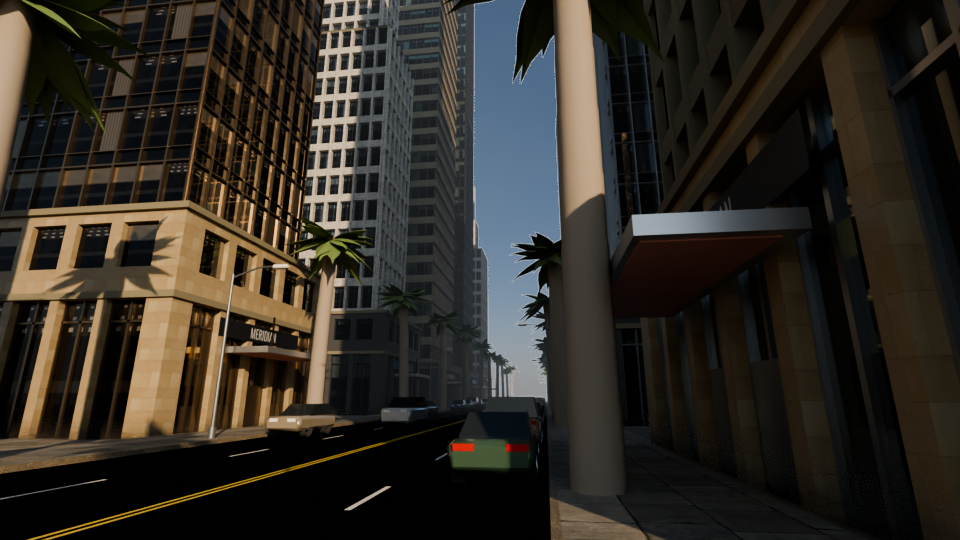
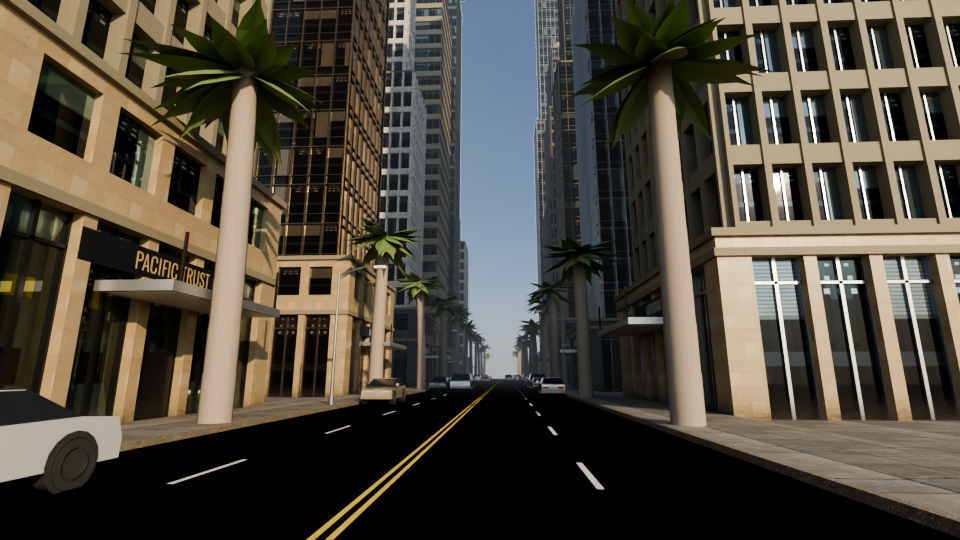
WIP snapshot (auto): workflows in progress
Claude-Session: https://claude.ai/code/session_013hTzzkEbxNRPuu2R1Xna4H

diff --git a/tools/blender/buildkit/render_kit.py b/tools/blender/buildkit/render_kit.py
@@ -120,8 +120,8 @@ def sc_downtown(a, night=False):
         S.night()
     else:
         S.world("sky_late_afternoon", sun_az=-150.0)
-    avenue(-460, 420, night=night, lamps=70, palms=(38, 50), palm_kind="date", seed=3, far_w=0, no_cars=(-460, -330),
-           clear=(-392, -7, 30))
+    avenue(-460, 420, night=night, lamps=70, palms=(50, 64), palm_kind="fan", seed=3, far_w=0, no_cars=(-460, -330),
+           clear=(-392, -7, 75))
     specs = [("tower", 3, -330), ("tower", 7, -230), ("tower", 1, -120), ("tower", 12, -10), ("tower", 5, 100), ("tower", 9, 210)]
     for (arch, sd, x) in specs:
         B = BK.build(arch, sd)

diff --git a/docs/v2/research/gta_assets.md b/docs/v2/research/gta_assets.md
@@ -638,3 +638,62 @@ For night, Poly Haven does have pure-sky HDRIs (corrected in verification): `klo
 | `img_gta/assets_npc_bodies.jpg`, `assets_npc_civ.jpg`, `assets_npc_police.jpg`, `assets_npc_police_acc.jpg`, `assets_npc_hats.jpg`, `assets_npc_street.jpg` | avatar items |
 | `img_gta/assets_city_sketchfab_buildings.jpg`, `assets_city_sketchfab_props.jpg`, `assets_props_polyhaven.jpg`, `assets_props_creatorstore.jpg` | city |
 | `img_gta/assets_sky_creatorstore.jpg`, `assets_sky_polyhaven.jpg` | skies |
+
+---
+
+## Verification
+
+Skeptical re-check made on 2026-10-27 by a second agent against the live APIs and the Roblox docs. **Totals: 23 CONFIRMED, 8 WRONG (all fixed in place above), 3 UNVERIFIABLE.** Changed lines in the body are the corrections listed here; rows added in verification are marked *(added in verification)*.
+
+Sources queried: `apis.roblox.com/toolbox-service/v1/items/details`, `catalog.roblox.com/v1/bundles/<id>/details`, `catalog.roblox.com/v1/favorites/assets/<id>/count`, `economy.roblox.com/v2/assets/<id>/details`, `users.roblox.com/v1/usernames/users`, `thumbnails.roblox.com/v1/assets`, `api.sketchfab.com/v3/models[/<uid>]`, `api.polyhaven.com/assets`, and the Roblox engine reference sources at `github.com/Roblox/creator-docs` (`Humanoid.yaml`, `Players.yaml`, `Sound.yaml`, `InsertService.yaml`, `AssetService.yaml`, `HumanoidDescription.yaml`, `projects/assets/privacy.md`, `production/creator-store.md`, `art/modeling/specifications.md`).
+
+### Wrong (corrected in place)
+
+| # | Claim | Correction |
+|---|---|---|
+| W1 | Base Body bundles 979–995 all have "realistic proportions" and rate 4 (Charlie 983, Glenn 984, Parker 985 in the table). | **979–987 (Riley, Cameron, Peyton, Charlie, Glenn, Parker, Devin, Kayden) use Roblox's "Anime Style 1/2" torso and head meshes.** For example, Charlie's 11572083496 is "Anime Style 1 – Torso" and 11572085825 is "Anime Style 1 – Head". The head thumbnails show large anime eyes. Only **988–995** have their own realistic-proportion parts. The 3 rows were moved to Notable 3s, and the decision summary now says 988–995. |
+| W2 | Use `Players:CreateHumanoidModelFromDescription`, `Humanoid:ApplyDescription` and `Humanoid:PlayEmote`. | All three are tagged **Deprecated** in the engine reference. Use `CreateHumanoidModelFromDescriptionAsync`, `ApplyDescriptionAsync` and `PlayEmoteAsync`. |
+| W3 | "For night, Poly Haven has no pure-sky option." | Poly Haven has 5 night "pure skies" HDRIs: `kloppenheim_07_puresky` (overcast, artificial light: the best fit for a lit city), `kloppenheim_02_puresky`, `qwantani_night_puresky`, `qwantani_moonrise_puresky` and `qwantani_moon_noon_puresky`. Rows were added to §6.2, with thumbnails in `img_gta/assets/ph_*`. |
+| W4 | "Nothing below repeats an ID from `assets/curation/*.json` … unless marked." | 4 IDs in Notable-3 lists were already in `assets/curation/vehicles-characters-props.json` and were unmarked: 1081392, 144076760, 6554200369 and 6555797786. They are now marked *(already in repo)*. All 18 IDs that the doc marked "already in repo" are present. |
+| W5 | Fleet has "police (7 cruisers and 5 interceptors)". | The library has about **8 cruisers/enforcers and 8 interceptors**. That includes two modern units the doc missed: **Trinity '03 Cop Interceptor** `6a5c6c8a75764eea905541fd5b05e9bf` (20.8k) and **Urban '10 Cop Enforcer** `745830362bb342128ef6509345606ffe` (19.6k), both CC BY and downloadable. They were added to §1.1 because they close part of the "too 1980s for GTA V" gap. |
+| W6 | Fictional brands mean "GTA-style parody brands come built in". | Mostly true, but **"Phoenix" (Imponte Phoenix) and "Cheetah" (Grotti Cheetah) are GTA's own vehicle names**, and "Duke" is close to Imponte Dukes. The §1.3 use-label "Burrito" is GTA's Declasse Burrito. Rename them, because the lead direction rules out GTA names. Notes were added to §1.1 and §1.2, and "Burrito" was removed from §1.3. Sources: <https://www.grandtheftwiki.com/Imponte>, <https://gtabase.com/grand-theft-auto-v/vehicles/declasse-burrito>, <https://op.gg/gta6/vehicles/cheetah>. |
+| W7 | Both opened GLBs have `WheelStamp_FL/FR/RL/RR` wheel meshes. | Only the Fairheaven uses `WheelStamp_*`. Kiri '10 and Shvan '92 use `WheelStock_*`, and **3** GLBs were opened, not 2. The re-parse of the scratchpad GLBs gave Kiri 12,980 tris / 31 meshes, Fairheaven 19,501 / 36 and Shvan 25,943 / 28. The importer must match `Wheel(Stamp\|Stock)_(FL\|FR\|RL\|RR)` or go by position. |
+| W8 | "223 per-item thumbnails" (author summary). | `img_gta/assets/` held **224** files before verification. It now holds 230, after 6 added thumbnails: 4 Poly Haven night skies and 2 Sketchfab police cars. The 18 contact sheets are confirmed. |
+
+### Confirmed
+
+| # | Claim | Evidence |
+|---|---|---|
+| C1 | Daniel Zhabotinsky has 100+ downloadable CC BY 4.0 models. | 136 models are listed (the profile says 133), and **130 are CC BY 4.0 and downloadable**. 3 are "Free Standard" (Suggan '53, Milano '95 Racemod, the material system) and 3 are not downloadable. None of those 6 is in this doc. |
+| C2 | The "I unconditionally give you permission…" quote. | It is verbatim in the description of `61766c1e6e1e4b2b803c174f33433a74`. |
+| C3 | All 48 §1.1 uids and the 4 DZ building sets. | Each one is by DanielZhabotinsky, CC BY 4.0 (`creativecommons.org/licenses/by/4.0/`) and downloadable, and its `faceCount` is within 150 tris of the listed figure. |
+| C4 | The other 58 Sketchfab uids (§1.2, §4.1, §4.2, notable 3s). | All are CC BY and downloadable, except TampaJoey City Props vol. 1 (`32b8b82bb1…`), which is **Free Standard** exactly as the doc says. These like counts were checked: Generic Town Bus 1,085, Burned Police Cars 1,406, Road Signs 1,394, Atlanta 3,430. |
+| C5 | Free Standard: commercial use is OK, with no stand-alone redistribution. | Sketchfab's licence page forbids making the material "available … as a stand-alone file", and its help pages allow commercial use. Added: set Asset Privacy to Restricted for those uploads (§7). Sources: <https://sketchfab.com/licenses>, <https://help.sketchfab.com/en/articles/16152225-store-license-usage-faq>. |
+| C6 | Creator Store cars §1.3 (16 IDs). | All exist, are public, and match on creator, tris, MeshParts, scripts and votes. For example: fire truck 8062915410 by CodeAta has 61,273 tris, 18 MeshParts, 0 scripts and 60 votes at 83%, and is free. Taxi 11721302627 by ryteclipse has 26,863 tris, 14 MeshParts and 33 scripts, and is free. Andru7rs Checker 97528551904169 costs **$14.99**. |
+| C7 | Creator Store props §4.3 (14 IDs). | All match, including the 2 paid items at $2.99 (74128359748221 and 118336156580063). The crane's real name is "…EC-B **Short** Flat top…", with 10 votes at 64%; this was fixed. |
+| C8 | Creator Store skies §6.1 (13 IDs). | All match on creator and votes. For example, 5186800496 by DotDDotexe has 1,000 votes at 97%. Caveat: its thumbnail shows a cloud sea below the horizon, so check it over open ocean in Studio. |
+| C9 | Only 4 creators have the blue badge, and toolbox `verified:true` does not mean a badge. | `hasVerifiedBadge` is true for Andru7rs, Natalie_Clabo, Stickmasterluke and CRRAANNNEEEEEEE, and false for CodeAta, ryteclipse, DotDDotexe, BadboyWestern, Regole_CKC, baxzzi and others. Toolbox `isVerifiedCreator` is true for all of them. |
+| C10 | Base Body bundles are free and Roblox-made, and the 988 and 991 part IDs are right. | All 16 checked bundles (979–995) are free and by Roblox. The Dawson and Addison part IDs match the bundle contents. |
+| C11 | Bundles 572 Summer, 573 Oliver, 722 Denny and 337 City Life Woman. | All are Roblox-made, free and on sale. |
+| C12 | Animation pack IDs (§3.2). | adidas Community: all 5 IDs, **including the "inferred" Run 124765145869332** (asset type 53, RunAnimation). Also adidas Sports, Rthro and Bold by e.l.f. The inferred-ID caveat was removed. The adidas and e.l.f. packs cost 300 R$, which doesn't matter for NPCs. |
+| C13 | The NPC emotes. | Cower 4940597758, Point2 3576823880, Salute 3360689775 and Shrug 3576968026 are all Roblox-made EmoteAnimation assets (type 61). Salute 3360689775 is the ID used in Roblox's own `HumanoidDescription:SetEmotes` doc example. |
+| C14 | Catalog items work on NPCs without ownership. | This is the documented `HumanoidDescription` pattern. `InsertService` docs also call shirts, pants and accessories `OpenUse`. Studio test still advised. |
+| C15 | Clothing sample (12 IDs). | Creator, asset type and badge match. The Roblox LC items (Zip Hoodie, Business Coat, Basic Tee, Leather Jacket) are 0 R$, and Floral Button Down is 105 R$ as noted. |
+| C16 | 53k and 57k favorites. | Tactical Operator Kit 11309698643 has 53,088. Police Utility Belt 4376960922 has 57,474. |
+| C17 | PSE and Audioscape audio (32 IDs sampled across §2, §5.1, §5.2 and §5.3). | All exist. The uploader is ProSoundEffects (7462895450) or Audioscape (34159607), and durations match. Engine-clip descriptions match the doc: Ferrari 308 "Hard Booming Revs, Very Fast Away with Gear Changes", Chevy pickup "Deep Humming Idle with Big Revs", Peterbilt "Driving Constant… Loop". Note that several clips start with a door slam or failed start, so set the loop region past it. |
+| C18 | `Sound.LoopRegion` exists. | It exists and is not deprecated. It needs `PlaybackRegionsEnabled = true` (note added to §5.1). `AudioPlayer.LoopRegion` also exists. |
+| C19 | Animation ownership rule. | Confirmed, with one addition: owners can now grant a universe access on the asset's Permissions page (`projects/assets/privacy.md`). Community packs won't grant it to us, so the rule stays blocking (text updated in §2). Both gun-anim packs exist: 3631707712 has 2 animations and 100 votes at 95%; 13408250226 has 29 animations. |
+| C20 | Creator Store models "load by ID, no upload". | True, but **only through `AssetService:LoadAssetAsync()` with "Allow Loading Third Party Assets" enabled**. `InsertService:LoadAsset` cannot load third-party free models, and loaded models are sandboxed. The mechanism was added to §1.3 and §7. |
+| C21 | Paid items need a purchase first. | Confirmed by the Creator Store FAQ. Added: only individual accounts can buy, and a paid model loaded dynamically fails in a group-owned game unless it was inserted before publish. |
+| C22 | `city.json` is cartoony. | It contains "synty city corner shop", "Low Poly Simulator Shop", "Cartoon House" ×3 and "Low Poly Palm Tree". |
+| C23 | Poly Haven IDs and polycounts. | All 11 HDRI IDs and 14 model IDs exist, and the polycounts match (for example `modular_electricity_poles` 200,610 and `concrete_road_barrier` 80,776). `covered_car` is the only car; the other car-tagged items are tyres and rims. |
+
+### Unverifiable here
+
+| # | Claim | Why |
+|---|---|---|
+| U1 | Audio realism ratings, and "no licensed per-class RPM loop sets exist". | There is no playback in the container, and the absence claim needs an exhaustive Store search. Listen in Studio. |
+| U2 | Realism ratings, and "every thumbnail looked at". | These are subjective. I spot-checked 16 thumbnails against their names and all matched. The only rating overturned on evidence is W1. |
+| U3 | Emotes, animation packs and LC clothing render correctly on server-spawned NPCs. | This needs Studio. The docs support the pattern (C13, C14). |
+
+Pipeline fact added for the importer: Roblox caps each mesh at **20,000 triangles** (`art/modeling/specifications.md`). The DZ cars are already split into 28–36 meshes, but Poly Haven props (80–200k) and the 55.5k bus must be decimated or split.
